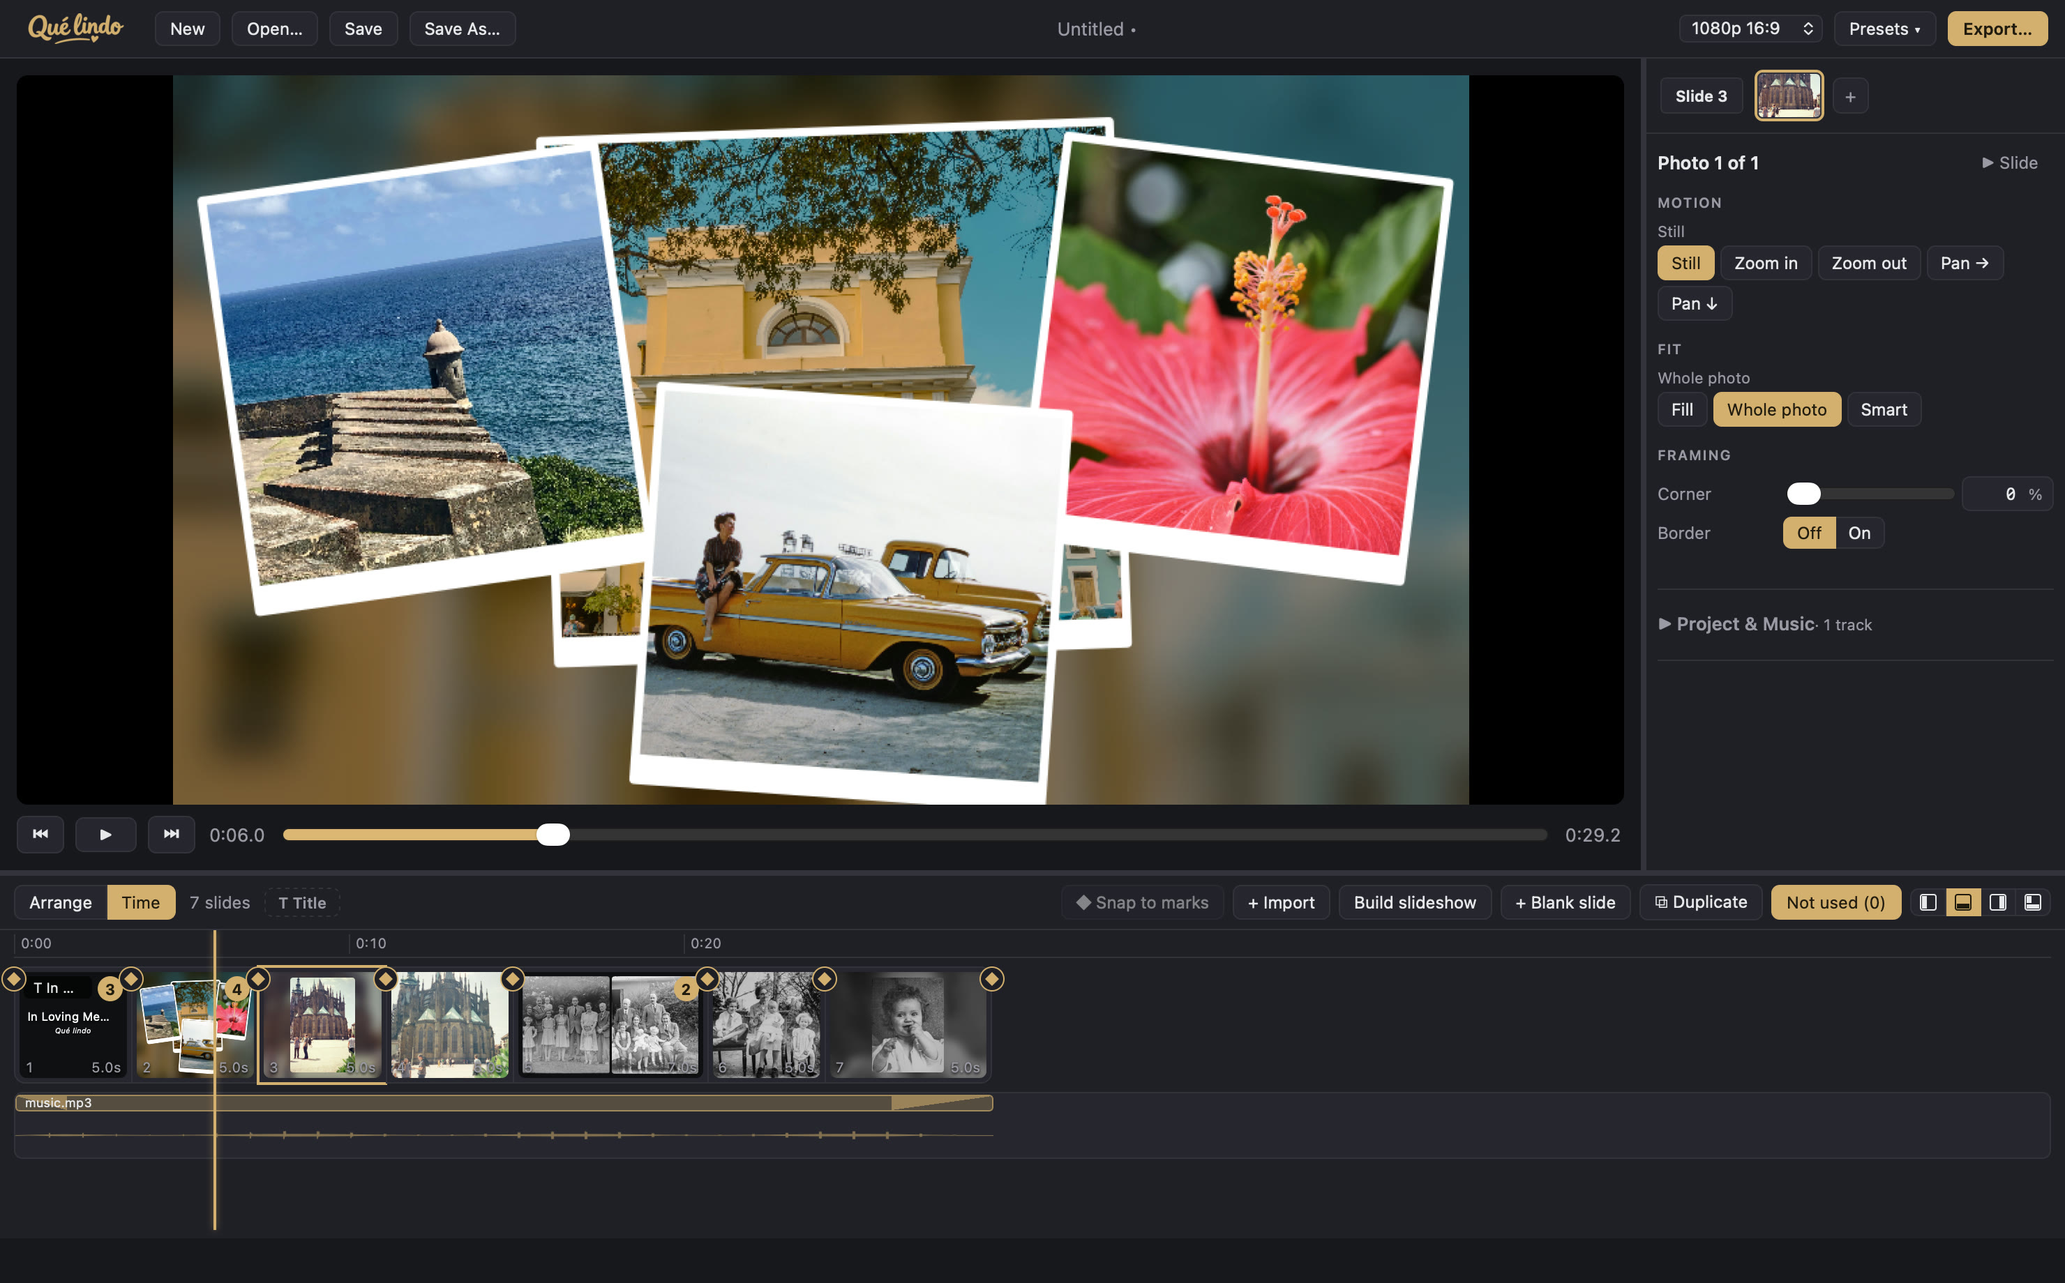
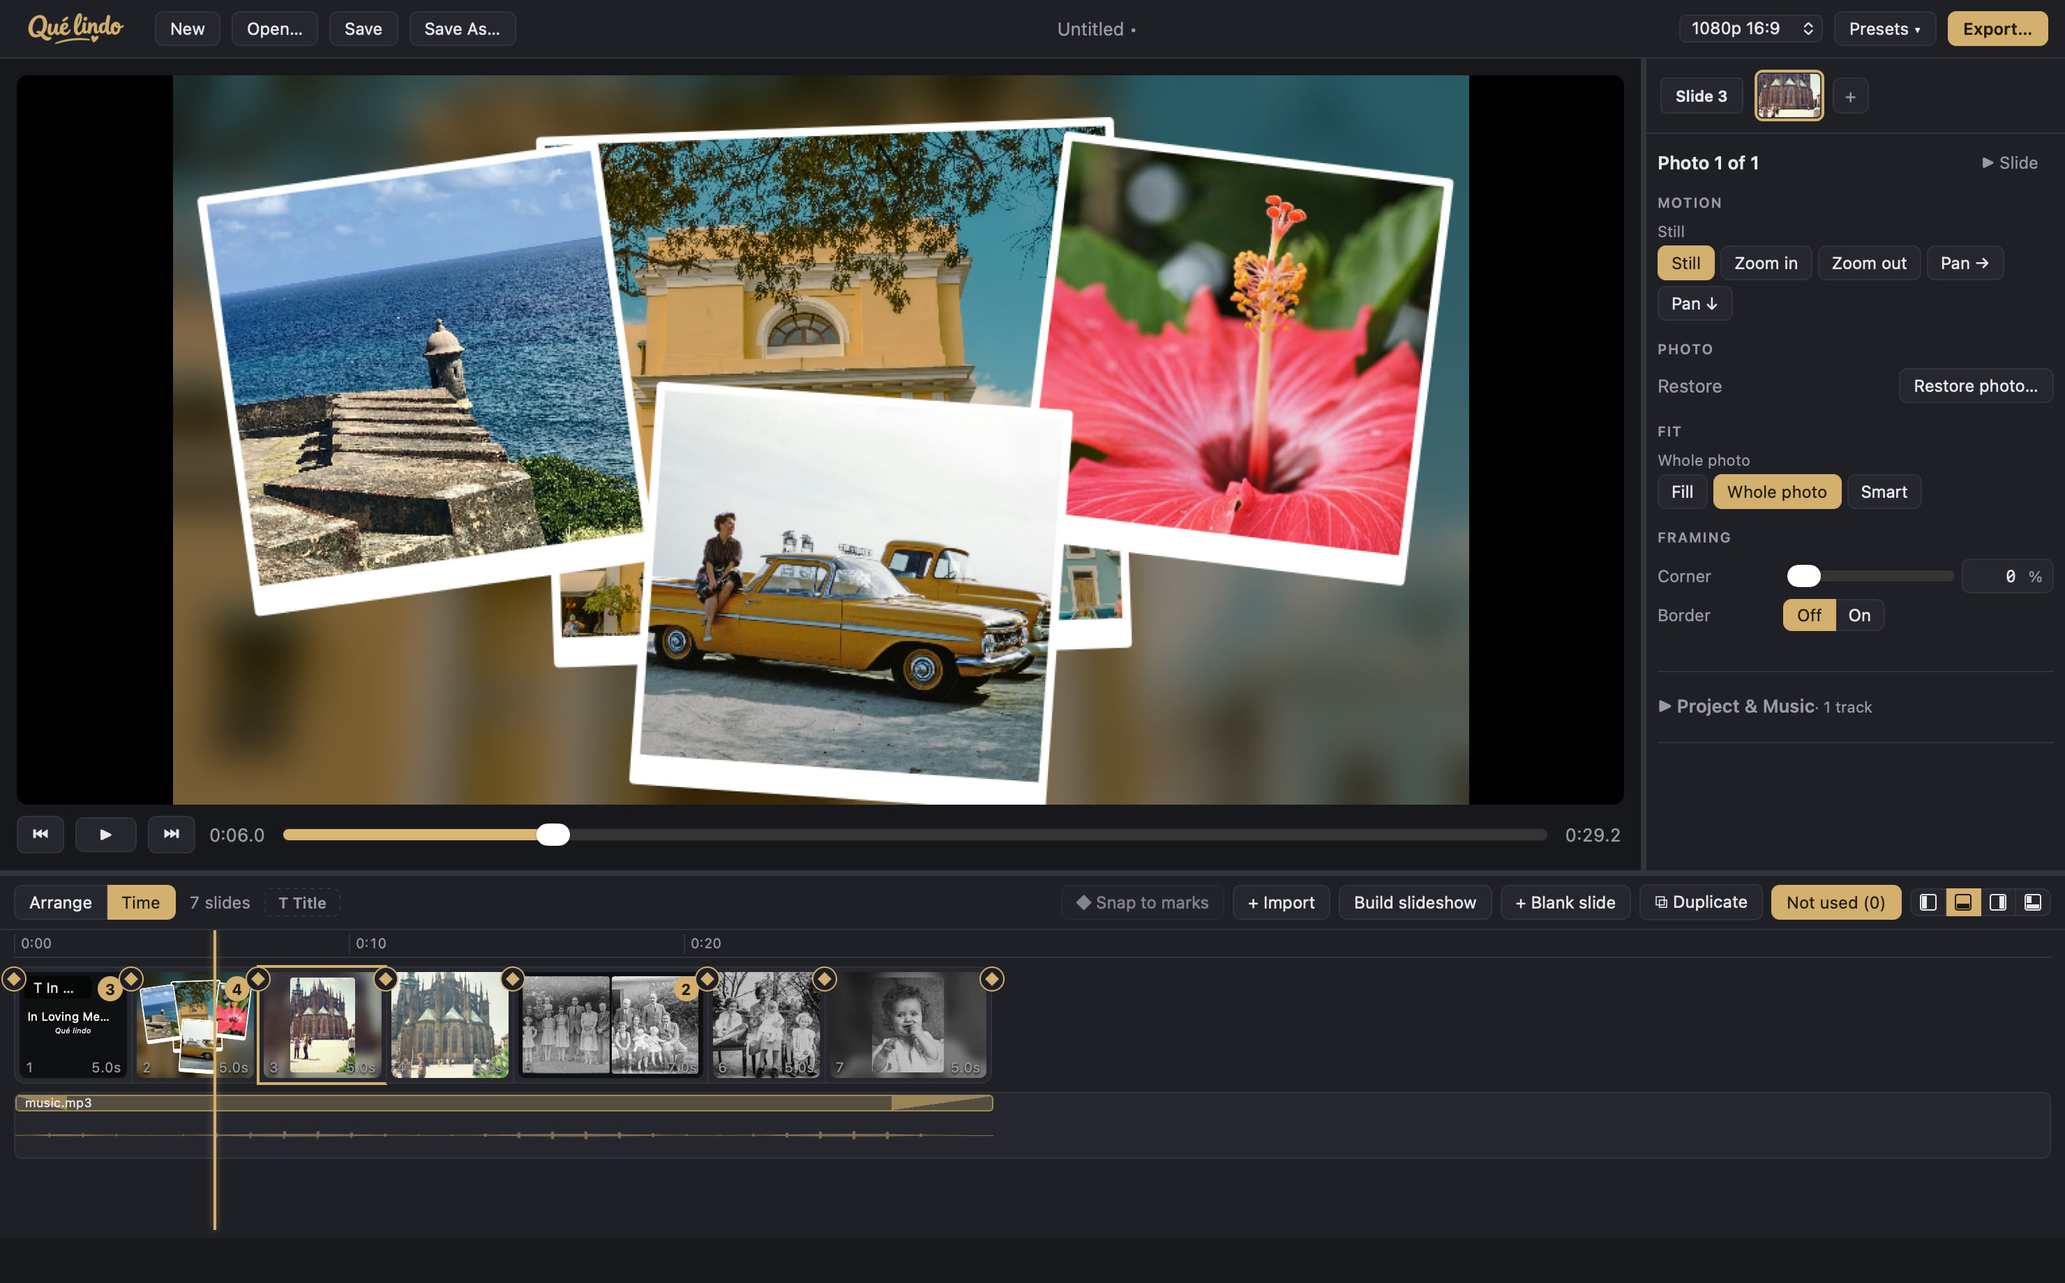
docs: document the restore view, its steps and engine, with screenshots
Two new captures: the print-crop step with detected corners on a photographed
print, and a scanned family photo with faces restored, split against the
original. The section now walks the view (zoom, split, peek, walking the
shelf), each step type, how results are kept, and the engine and standalone
lab in tools/restore.

The screenshot spec stages the photographed print itself (make-print-photo.py
puts one of the Unsplash photos on a woven cloth with a tilt and a shadow),
dismisses a stale crash-recovery offer before capturing, and skips the two
engine shots when tools/restore is not installed. Those two run a face model
for real, so wdio.conf.ts now takes WDIO_TEST_TIMEOUT for the per-test limit.

Changed region(s): [[0.8081, 0.2788, 0.9324, 0.4957], [0.8081, 0.5266, 0.9014, 0.5576], [0.9324, 0.2788, 0.9635, 0.3098]]

diff --git a/app/e2e/tools/screenshots.spec.ts b/app/e2e/tools/screenshots.spec.ts
@@ -1,12 +1,14 @@
 // README screenshots. Not part of the default run; invoke explicitly:
 //
 //   e2e/tools/fetch-shot-media.sh
-//   SHOT_MEDIA=$PWD/e2e/tools/shot-media SHOT_OUT=$PWD/../docs/screenshots \
+//   SHOT_MEDIA=$PWD/e2e/tools/shot-media SHOT_OUT=$PWD/../docs/screenshots WDIO_TEST_TIMEOUT=900000 \
 //     npx wdio run e2e/wdio.conf.ts --spec e2e/tools/screenshots.spec.ts
 //
 // SHOT_MEDIA holds photos, an optional clip and an mp3; fetch-shot-media.sh
 // fills it with the pinned Unsplash set the committed shots were taken from.
 // SHOT_OUT receives numbered JPEGs at the window's native (retina) resolution.
+// The last two shots need the restore engine (tools/restore/setup.sh --all)
+// and run a face model for real, hence the long WDIO_TEST_TIMEOUT.
 import { browser, $, $$ } from "@wdio/globals";
 import { execFileSync } from "node:child_process";
 import { existsSync, mkdirSync, readdirSync, rmSync } from "node:fs";
@@ -43,6 +45,10 @@ describe("README screenshots", () => {
     };
 
     await resetApp();
+    // A snapshot left by an earlier run that was cut short comes back as a
+    // recovery offer; it would sit over the first capture that takes a while.
+    await browser.pause(600);
+    await dom(() => [...document.querySelectorAll<HTMLButtonElement>(".modal-backdrop button")].find((b) => b.textContent?.trim() === "Discard")?.click());
     await dropFiles(files);
     await waitForImport(files, 60_000);
     // The button stays disabled until every photo's fingerprint is in.
@@ -140,5 +146,66 @@ describe("README screenshots", () => {
     await browser.pause(500);
     await shot("05-export");
     await browser.keys("Escape");
+
+    // The Restore view needs the Python engine (tools/restore/setup.sh); the
+    // debug build finds the repository's copy on its own. Without it these two
+    // shots are skipped rather than failing the run.
+    const toolsDir = path.dirname(fileURLToPath(import.meta.url));
+    const enginePy = path.resolve(toolsDir, "..", "..", "..", "tools", "restore", ".venv", "bin", "python");
+    if (!existsSync(enginePy)) {
+      console.log("SKIP 06/07: restore engine not installed");
+      return;
+    }
+    const engineReady = () =>
+      waitForDom(
+        () => [...document.querySelectorAll(".restore-side .hint")].some((h) => (h.textContent ?? "").startsWith("Engine on")),
+        undefined,
+        180_000,
+        "restore engine did not come up",
+      );
+    const pickPreset = (name: string) =>
+      dom((n) => {
+        const el = document.querySelector<HTMLSelectElement>("#restore-preset");
+        if (!el) return false;
+        Object.getOwnPropertyDescriptor(HTMLSelectElement.prototype, "value")?.set?.call(el, n);
+        el.dispatchEvent(new Event("change", { bubbles: true }));
+        return el.value === n;
+      }, name);
+    const resultShown = () =>
+      waitForDom(() => document.querySelector(".restore-badge")?.textContent === "result", undefined, 300_000, "no result");
+
+    // 06: a photographed print with the detected corners on it. Staged from
+    // one of the photos so the crop shot needs no extra download; kept out of
+    // the media folder proper so it stays out of the film.
+    const printDir = path.join(MEDIA, "print");
+    mkdirSync(printDir, { recursive: true });
+    const printPhoto = path.join(printDir, "print-on-table.jpg");
+    if (!existsSync(printPhoto)) {
+      const source = files.find((f) => /02-fort/.test(f)) ?? files[0];
+      execFileSync(enginePy, [path.join(toolsDir, "make-print-photo.py"), source, printPhoto], { stdio: "inherit" });
+    }
+    await dropFiles([printPhoto]);
+    await waitForImport([printPhoto], 60_000);
+    await act((s, p) => s.setRestoring(p), printPhoto, 600);
+    await engineReady();
+    await pickPreset("Crop a scanned print");
+    await clickButton("Detect corners", ".restore-side");
+    await waitForDom(() => document.querySelectorAll(".crop-handle").length === 4, undefined, 120_000, "no corners detected");
+    await browser.pause(800);
+    await shot("06-crop");
+
+    // 07: faces restored on the family portrait, compared in the split view.
+    // Gentle, so the shot shows a repair rather than a repaint.
+    const portrait = files.find((f) => /07-family-portrait/.test(f)) ?? files[0];
+    await act((s, p) => s.setRestoring(p), portrait, 600);
+    await engineReady();
+    await waitForDom(() => !document.querySelector(".restore-status"), undefined, 60_000);
+    await pickPreset("Faces, gentle (PMRF 60%)");
+    await clickButton("Run", ".restore-side");
+    await resultShown();
+    await clickButton("Split", ".restore-head");
+    await browser.pause(800);
+    await shot("07-restore");
+    await act((s) => s.setRestoring(null));
   });
 });

diff --git a/app/e2e/wdio.conf.ts b/app/e2e/wdio.conf.ts
@@ -48,7 +48,9 @@ export const config: WebdriverIO.Config = {
   // `outputDir`, which defaults to app/logs — where CI wasn't looking.
   outputDir: LOGS,
   framework: "mocha",
-  mochaOpts: { ui: "bdd", timeout: 90_000 },
+  // WDIO_TEST_TIMEOUT overrides the per-test limit for runs that do real
+  // work, such as the README screenshots (a face model runs for minutes).
+  mochaOpts: { ui: "bdd", timeout: Number(process.env.WDIO_TEST_TIMEOUT ?? 90_000) },
   reporters: ["spec"],
   logLevel: "warn",
   waitforTimeout: 15_000,

diff --git a/app/e2e/page/app.ts b/app/e2e/page/app.ts
@@ -36,6 +36,9 @@ export interface EditorState {
   rev: number;
   past: unknown[];
   mode: "arrange" | "time";
+  /** Photo open in the Restore view, or null. */
+  restoring: string | null;
+  setRestoring(path: string | null): void;
   mutate(fn: (p: EditorState["project"]) => EditorState["project"]): void;
   selectSlide(i: number, exclusive?: boolean): void;
   selectCell(i: number | null): void;

diff --git a/app/e2e/tools/make-print-photo.py b/app/e2e/tools/make-print-photo.py
@@ -1,0 +1,79 @@
+#!/usr/bin/env python3
+# /// script
+# requires-python = ">=3.9"
+# dependencies = ["numpy", "opencv-python-headless>=4.8"]
+# ///
+"""Stage a photograph as a print lying on a table, for the README's crop shot.
+
+    make-print-photo.py PHOTO OUT.jpg
+
+The print gets a white border, a slight tilt and perspective, and a soft
+shadow, on a warm grey cloth with a little texture: what a phone snap of an
+old print looks like before tools/autocrop straightens it. The screenshot
+spec runs this with the restore engine's Python (it has numpy and OpenCV).
+"""
+from __future__ import annotations
+
+import sys
+
+import cv2
+import numpy as np
+
+
+def main(src: str, dst: str) -> None:
+    photo = cv2.imread(src, cv2.IMREAD_COLOR)
+    if photo is None:
+        sys.exit(f"could not read {src}")
+    W, H = 2400, 1800
+    rng = np.random.default_rng(7)
+
+    # The cloth: warm grey with a real weave. The detector separates print
+    # from background by the border's colour and its texture, so the texture
+    # has to be there (fine, high-contrast, everywhere) and the tone must not
+    # drift across the frame: a vignette reads as "the border is darker than
+    # the middle", which is exactly what a print looks like.
+    base = np.array([124, 128, 136], np.float32)[None, None, :]
+    weave = rng.normal(0, 16, (H, W, 1)).astype(np.float32)
+    # Directional blur along x and y separately gives a woven look rather than
+    # static.
+    warp_ = cv2.blur(weave, (3, 1))
+    weft = cv2.blur(weave, (1, 3))
+    weave = (0.5 * warp_ + 0.5 * weft)[..., None] if warp_.ndim == 2 else 0.5 * warp_ + 0.5 * weft
+    cloth = np.clip(base + weave, 0, 255).astype(np.uint8)
+
+    # The print: photo inside a white border, sized to sit in the frame.
+    # Fit the print inside about 60% of the frame whichever way it is oriented.
+    scale = min(1400 / photo.shape[1], 1080 / photo.shape[0])
+    inner = cv2.resize(photo, None, fx=scale, fy=scale, interpolation=cv2.INTER_AREA)
+    b = 34
+    print_img = cv2.copyMakeBorder(inner, b, b, b, b, cv2.BORDER_CONSTANT, value=(242, 244, 246))
+    ph, pw = print_img.shape[:2]
+
+    # Slightly tilted, slightly foreshortened, off centre.
+    src_q = np.float32([[0, 0], [pw, 0], [pw, ph], [0, ph]])
+    cx, cy = W * 0.52, H * 0.5
+    ang = np.deg2rad(-6.0)
+    c, s = np.cos(ang), np.sin(ang)
+    rot = np.array([[c, -s], [s, c]], np.float32)
+    corners = (src_q - [pw / 2, ph / 2]) @ rot.T + [cx, cy]
+    # Perspective: the far (top) edge a touch narrower.
+    corners[0] += [22, 14]
+    corners[1] += [-22, 14]
+    dst_q = corners.astype(np.float32)
+    M = cv2.getPerspectiveTransform(src_q, dst_q)
+    warped = cv2.warpPerspective(print_img, M, (W, H), flags=cv2.INTER_CUBIC)
+    mask = cv2.warpPerspective(np.full((ph, pw), 255, np.uint8), M, (W, H))
+
+    # A soft shadow under the print, offset down-right.
+    shadow = cv2.GaussianBlur(np.roll(np.roll(mask, 18, axis=0), 14, axis=1), (0, 0), 22).astype(np.float32) / 255
+    out = cloth.astype(np.float32) * (1 - 0.45 * shadow[..., None])
+    m = (mask > 0)[..., None]
+    out = np.where(m, warped.astype(np.float32), out)
+    cv2.imwrite(dst, np.clip(out, 0, 255).astype(np.uint8), [cv2.IMWRITE_JPEG_QUALITY, 92])
+    print(f"wrote {dst} ({W}x{H}); print corners {dst_q.round().tolist()}")
+
+
+if __name__ == "__main__":
+    if len(sys.argv) != 3:
+        sys.exit(__doc__)
+    main(sys.argv[1], sys.argv[2])

diff --git a/README.md b/README.md
@@ -23,7 +23,8 @@ job needed. This project is named for her.
 |---|---|
 | ![Title card, text controls, split Arrange and Time view](docs/screenshots/01-title.jpg) | ![A four-photo moment opened as a band, arrangement picker](docs/screenshots/02-group.jpg) |
 | ![One photo: motion, fit and framing controls](docs/screenshots/03-photo.jpg) | ![Time view: the same moment as a scatter pile, over the music waveform and beat marks](docs/screenshots/04-time.jpg) |
-| ![Export dialog with size presets](docs/screenshots/05-export.jpg) | |
+| ![Export dialog with size presets](docs/screenshots/05-export.jpg) | ![Crop a photographed print: the detected corners on the photo, ready to drag](docs/screenshots/06-crop.jpg) |
+| ![Restore view: a scanned family photo with faces restored, original on the left of the split, result on the right](docs/screenshots/07-restore.jpg) | |
 
 Photographs from [Unsplash](https://unsplash.com), under the
 [Unsplash License](https://unsplash.com/license).
@@ -235,36 +236,87 @@ dependencies (`uv run tools/autocrop/review.py scans/`).
 
 ## Restoring old photos
 
-Right-click a photo (shelf, card, or a member of a group) and choose **Restore
-photo…**, or press *Restore photo…* in the inspector. The photo opens on its
-own, full window, with a pipeline of steps on the right:
+The photos that matter most at a memorial are often the worst ones: prints
+photographed on a kitchen table, scans of faded snapshots, faces gone soft.
+The **Restore** view is a small photo-restoration studio inside the app for
+exactly those. Right-click a photo (on the shelf, a card, or a member of a
+group) and choose **Restore photo…**, or press *Restore photo…* in the
+inspector's Photo group. The photo opens on its own, full window.
 
-- **Faces**: [PMRF](https://github.com/ohayonguy/PMRF) blind face restoration,
-  GFPGAN, CodeFormer, RestoreFormer. Faces are detected, aligned, restored and
-  pasted back; the rest of the photo is untouched.
-- **Old prints**: Microsoft's
-  [Bringing Old Photos Back to Life](https://github.com/microsoft/Bringing-Old-Photos-Back-to-Life)
-  for fading, noise and scratches.
-- **Any 1× model** [spandrel](https://github.com/chaiNNer-org/spandrel) can
-  load (SCUNet, Restormer, SwinIR, NAFNet, OpenModelDB files) for denoising,
-  deblurring and JPEG cleanup; plus resize, sharpen and grain.
-- **Crop a photographed print**: the `tools/autocrop` detector as a step.
-  *Detect corners* finds the print on its background, *Adjust corners* puts
-  four handles on the photo to drag, and the run straightens and crops at full
-  resolution. As the first step of a pipeline it feeds the cleaned-up print
-  into everything after it.
+### The view
 
-Each step has a *blend* against its input, so "PMRF at 60%" is one slider, not
-a re-run. Compare with a split you drag, or hold Space to peek at the original.
-Nothing is written until you choose **Replace original** (the original moves to
-`_originals/` beside it and the film picks up the change) or **Save as copy**.
-Presets cover the common cases and you can save your own.
+- **Left, the photo.** Wheel to zoom, drag to pan, `F` fits, `1` is actual
+  pixels. Once there is a result, the *Original / Result / Split* buttons swap
+  what you see; *Split* draws a divider you drag across the photo, and holding
+  **Space** peeks at the original from anywhere.
+- **Right, the pipeline.** A preset picker, then the list of steps the run
+  applies in order. Every step has a *blend* against its own input, so "faces
+  at 60%" is a slider, not a repaint, and moving it after a run is free.
+  Steps reorder with the arrows; **+ Add step** offers the whole vocabulary.
+- **Run** shows what the engine is doing ("step 2/3: PMRF, 25 flow steps") and
+  keeps a log. Results are cached per step, so changing a later step or a
+  blend does not re-run the earlier ones.
+- `←` `→` walk the shelf photo by photo, so a pile of scans can be worked
+  through without leaving the view. `Esc` returns to the film.
 
-The engine is Python and lives in [tools/restore](tools/restore); it is
-optional and installed once with `tools/restore/setup.sh --all` (see its
-README for the models and where they come from). Without it the Restore view
-explains what to run. Apple Silicon runs everything on the GPU; PMRF's
-CUDA-only attention is re-implemented there as tiled dense attention.
+### The steps
+
+- **Crop a photographed print** — [tools/autocrop](tools/autocrop) as a step.
+  **Detect corners** finds the print on its background (a towel, a table) and
+  drops four handles on the photo; **Adjust corners** lets you place them by
+  hand; *Inset* trims a sliver of background, *Turn* rotates in quarter turns.
+  The run straightens the print at full resolution. As the first step it feeds
+  a clean print into everything after it.
+- **Faces: PMRF** — [PMRF](https://github.com/ohayonguy/PMRF) blind face
+  restoration. Faces are detected, aligned, restored and pasted back; nothing
+  else in the photo is touched. *Flow steps* trades time for fidelity;
+  *Posterior mean only* gives the minimal-distortion estimate with no
+  hallucinated detail.
+- **Old print: Bringing Old Photos Back to Life** — Microsoft's model for
+  faded, noisy, damaged prints, with optional scratch detection and inpainting
+  and an optional face pass of its own.
+- **Model** — any 1× model [spandrel](https://github.com/chaiNNer-org/spandrel)
+  loads from `tools/restore/models/`: SCUNet and Restormer for denoising and
+  deblurring, SwinIR for JPEG cleanup, GFPGAN, CodeFormer and RestoreFormer
+  for faces, and the 1× models on [OpenModelDB](https://openmodeldb.info/?t=1x).
+  Large photos run tiled.
+- **Resize, Sharpen, Add grain** — the plain tools around the models: shrink a
+  huge scan before a denoiser, sharpen after, put a little grain back on a
+  result that came out too smooth.
+- **Shell command** — a `{in}` `{out}` template for research code in its own
+  environment.
+
+Presets cover the common cases (*Crop a scanned print*, *Old print + faces*,
+*Faces, gentle*, *Denoise*…) and any pipeline can be saved as your own.
+
+### Keeping the result
+
+Nothing touches the file until you say so. **Replace original** writes the
+result over the photo and moves the original to `_originals/` beside it; the
+film refreshes the way it does after editing in an external app. **Save as
+copy** writes a new file, puts it on the shelf, and offers to use it in the
+film in place of the original. JPEG quality is a field next to both.
+
+### The engine
+
+The restoration models run in Python, in [tools/restore](tools/restore): a
+small local server the app starts on demand on a free localhost port and stops
+when it quits. Nothing leaves the machine. It is optional and installs once:
+
+```sh
+tools/restore/setup.sh            # models for faces, denoising, deblurring (about 2 GB)
+tools/restore/setup.sh --all      # plus PMRF and Bringing Old Photos Back to Life
+```
+
+Without it the Restore view says so and shows the command. Apple Silicon runs
+everything on the GPU; PMRF's CUDA-only neighbourhood attention is
+re-implemented there as tiled dense attention, about 0.4 s per flow step on an
+M2 Pro. The same folder is a standalone lab for model work: a web UI that
+compares many pipelines on one image in a synced, zoomable grid, a folder
+curator, and command-line runners for PMRF and Old Photos over a whole folder.
+See [tools/restore/README.md](tools/restore/README.md). The models carry their
+own licenses (CodeFormer and Restormer are non-commercial); they are listed in
+[THIRD_PARTY.md](THIRD_PARTY.md).
 
 ## Development
 
@@ -275,7 +327,8 @@ crates/slideshow-cli    headless CLI (bin: slideshow)
 app/                    Tauri v2 app (React + TypeScript), face detection,
                         embeddings, preview server
 app/e2e/                WebdriverIO end-to-end suites against the real app
-                        (tools/screenshots.spec.ts regenerates the README shots)
+                        (tools/screenshots.spec.ts regenerates the README shots;
+                        see its header, the last two need the restore engine)
 examples/               full-feature project + placeholder media generator
 scripts/                ffmpeg sidecar fetchers
 tools/autocrop          print scanning helper
